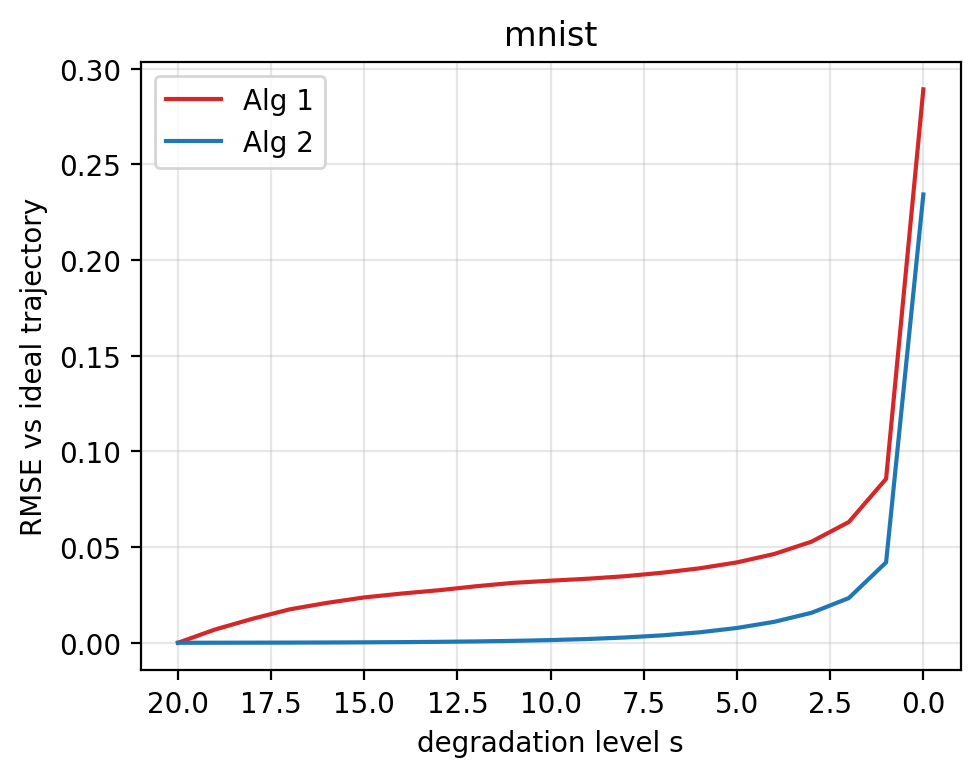
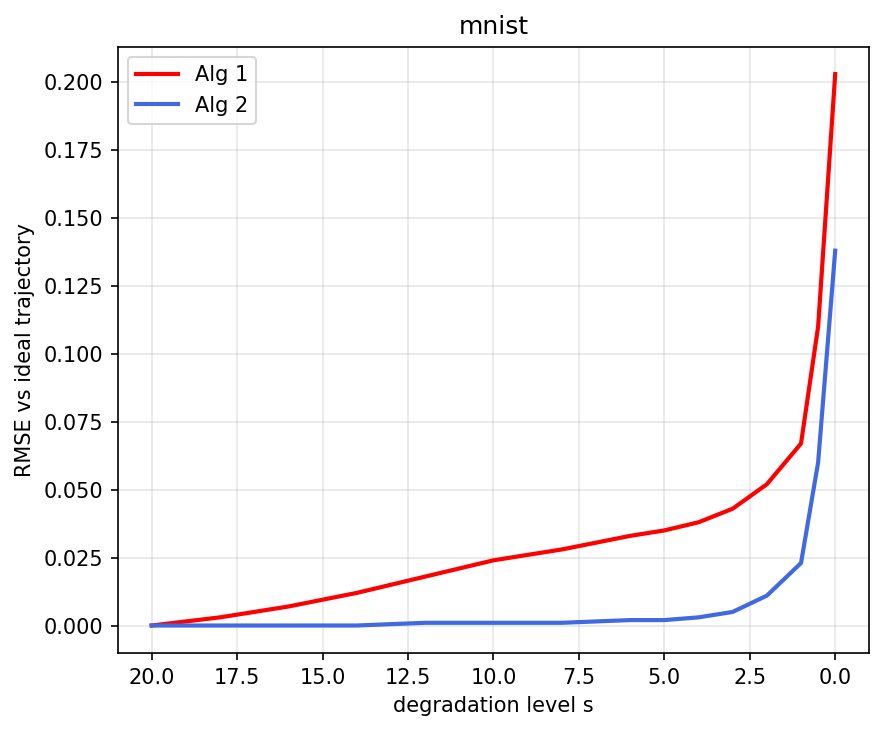
Strip poster chrome and add print-ready PDF
Remove dev-preview chrome (top header bar, variant/scale meta,
placeholder footer). Add @user print rules for 36in x 24in @user,
hiding the dark backdrop and shell so the poster fills the sheet
edge-to-edge.

Includes refreshed drift curve images and the rendered PDF
(cold_diffusion_poster.pdf, 36 x 24 in).

Changed region(s): [[0.0, 0.0301, 1.0, 0.9932]]

diff --git a/poster/project/poster.html b/poster/project/poster.html
@@ -341,21 +341,25 @@
   table.results tr.alg2-row td.method { color: var(--ink); font-weight: 700; }
   table.results tr.first-method { border-top: 2px solid var(--ink); }
   table.results tr.method-row { border-top: 1px solid var(--rule); }
+
+  /* ---------- Print ---------- */
+  @page { size: 36in 24in; margin: 0; }
+  @media print {
+    html, body { background: white !important; margin: 0 !important; padding: 0 !important; }
+    .stage { padding: 0 !important; display: block !important; }
+    .poster-shell { background: none !important; padding: 0 !important; box-shadow: none !important; border-radius: 0 !important; width: auto !important; }
+    .poster-clip { overflow: visible !important; width: auto !important; height: auto !important; }
+    .poster {
+      transform: scale(1.92) !important;
+      transform-origin: top left !important;
+    }
+  }
 </style>
 </head>
 <body>
 
-<div class="chrome">
-  <h1>Cold Diffusion · Final Poster</h1>
-  <span class="sub">36″ × 24″ landscape · CS 4782 final</span>
-</div>
-
 <div class="stage">
   <div class="poster-shell" id="shell">
-    <div class="poster-meta">
-      <span>Variant B1 · Temperature gauge — Cold Diffusion re-implementation</span>
-      <span id="scaleLabel">scale 100%</span>
-    </div>
     <div class="poster-clip" id="clip">
       <div class="poster with-margin" id="poster">
 
@@ -698,22 +702,22 @@
                   <tr class="first-method">
                     <td class="dataset" rowspan="4">MNIST</td>
                     <td class="method">Degraded (x_T)</td>
-                    <td class="val split">402.96</td><td class="val">0.0112</td><td class="val">0.3068</td>
+                    <td class="val split">398.14</td><td class="val">0.0141</td><td class="val">0.2866</td>
                     <td class="val split paper-val">368.56</td><td class="val paper-val">0.1780</td><td class="val paper-val">0.2310</td>
                   </tr>
                   <tr class="method-row">
                     <td class="method">Direct  R(x_T,T)</td>
-                    <td class="val split">23.03</td><td class="val">0.8166</td><td class="val">0.1645</td>
+                    <td class="val split">27.04</td><td class="val">0.8458</td><td class="val">0.1358</td>
                     <td class="val split paper-val">4.05</td><td class="val paper-val">0.8230</td><td class="val paper-val">0.1140</td>
                   </tr>
                   <tr class="method-row">
                     <td class="method">Alg 1  naive iter.</td>
-                    <td class="val split">65.63</td><td class="val">0.5445</td><td class="val">0.2817</td>
+                    <td class="val split">41.16</td><td class="val">0.6234</td><td class="val">0.2374</td>
                     <td class="val split paper-val">—</td><td class="val paper-val">—</td><td class="val paper-val">—</td>
                   </tr>
                   <tr class="method-row alg2-row">
                     <td class="method">Alg 2  improved</td>
-                    <td class="val split">30.64</td><td class="val">0.6587</td><td class="val">0.2288</td>
+                    <td class="val split">22.69</td><td class="val">0.7537</td><td class="val">0.1780</td>
                     <td class="val split paper-val">4.33</td><td class="val paper-val">0.8200</td><td class="val paper-val">0.1150</td>
                   </tr>
                   <!-- CIFAR-10 -->
@@ -748,10 +752,6 @@
 
       </div><!-- /.poster -->
     </div><!-- /.poster-clip -->
-    <div class="poster-meta" style="margin-top:10px; margin-bottom:0;">
-      <span>1800 × 1200 canvas (50 DPI) · final print 36″ × 24″ @ 300 DPI</span>
-      <span>placeholder content where TBD — fill with real numbers + figures</span>
-    </div>
   </div><!-- /.poster-shell -->
 </div><!-- /.stage -->
 
@@ -760,7 +760,6 @@
     var poster = document.getElementById('poster');
     var clip = document.getElementById('clip');
     var shell = document.getElementById('shell');
-    var label = document.getElementById('scaleLabel');
     function fit() {
       var pad = 80;
       var availW = window.innerWidth - pad;
@@ -771,7 +770,6 @@
       clip.style.width = (1800 * s) + 'px';
       clip.style.height = (1200 * s) + 'px';
       shell.style.width = (1800 * s + 36) + 'px';
-      label.textContent = 'scale ' + Math.round(s * 100) + '%';
     }
     fit();
     window.addEventListener('resize', fit);